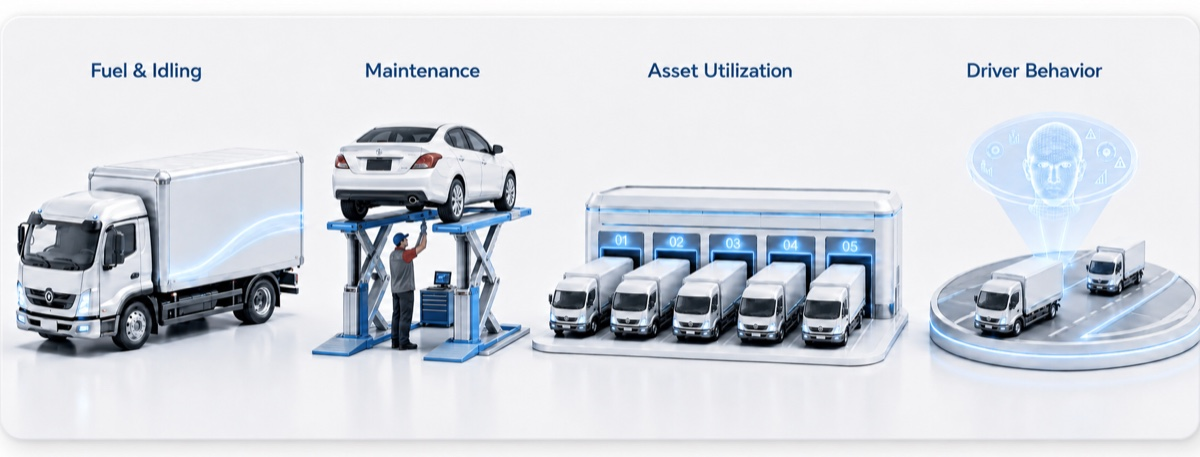
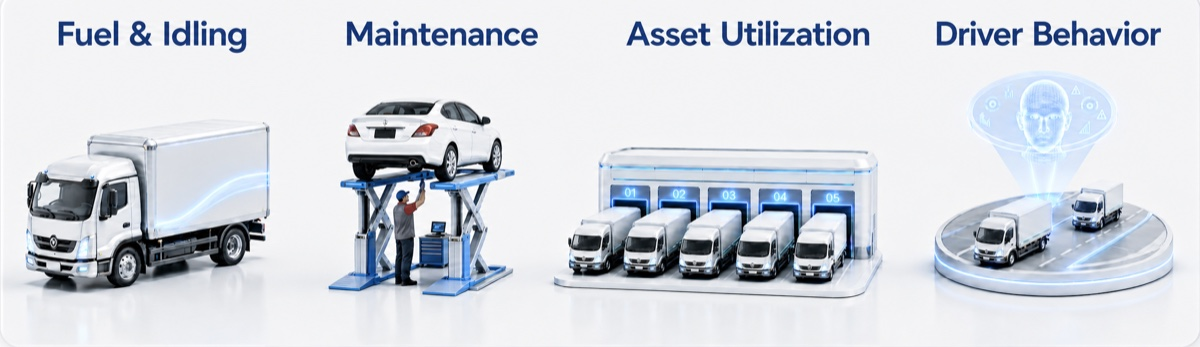
Add files via upload

diff --git a/index.html b/index.html
@@ -165,7 +165,7 @@
 
     <!-- ================= SECTION 2 — WHERE DO HIDDEN FLEET COSTS COME FROM? + CTA ================= -->
     <tr>
-      <td style="background-color:#FFFFFF;border-top:1px solid #E6EDF1;padding:25px 42px 54px;" class="px">
+      <td style="background-color:#FFFFFF;border-top:1px solid #E6EDF1;padding:25px 42px 36px;" class="px">
         <table role="presentation" width="100%" cellpadding="0" cellspacing="0" border="0">
           <tr>
             <td>
